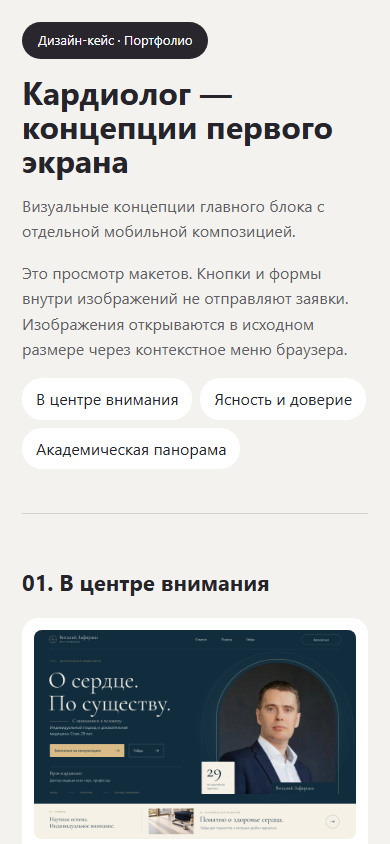
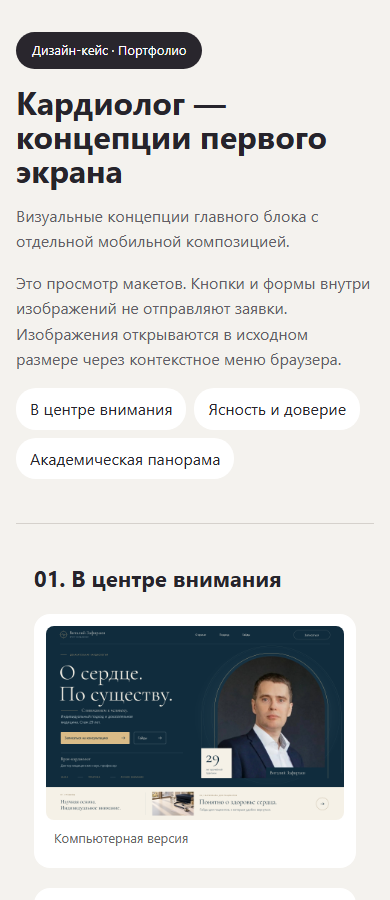
Polish project presentation, mobile layout and browser access

Changed region(s): [[0.0615, 0.6161, 0.9231, 1.0], [0.0308, 0.3081, 0.9538, 0.5545], [0.0308, 0.0, 0.8615, 0.2773]]

diff --git a/index.html b/index.html
@@ -1,1 +1,7 @@
-<!doctype html><html lang="ru"><meta charset="utf-8"><meta name="viewport" content="width=device-width,initial-scale=1"><title>Кардиолог — концепции первого экрана</title><style>*{box-sizing:border-box}body{margin:0;background:#f4f2ee;color:#26242b;font:16px/1.6 system-ui}header,main,footer{max-width:1440px;margin:auto;padding:32px}header{padding-top:64px}h1{font-size:clamp(32px,5vw,64px);line-height:1.06;max-width:1000px;margin:16px 0}h2{font-size:28px}p{max-width:900px;color:#625d66}.tag{display:inline-block;background:#29262d;color:white;border-radius:30px;padding:8px 16px;font-size:13px}nav{display:flex;flex-wrap:wrap;gap:8px}a{color:inherit}nav a{padding:8px 14px;background:white;border-radius:20px;text-decoration:none}section{padding:32px 0;border-top:1px solid #d5d1cc}figure{margin:0;background:white;padding:12px;border-radius:16px}img{max-width:100%;height:auto;display:block;border-radius:8px}figcaption{font-size:13px;color:#666;padding:8px}.screens{display:grid;grid-template-columns:minmax(0,3fr) minmax(0,1fr);align-items:start;gap:20px}details{padding:18px 0}summary{cursor:pointer;font-weight:600}footer{font-size:13px;color:#5f5b56}@media(max-width:700px){header,main,footer{padding:22px}.screens{grid-template-columns:1fr}.screens figure:nth-child(2){max-width:390px;margin:auto}h2{font-size:22px}}</style><header><span class="tag">Дизайн-кейс · Портфолио</span><h1>Кардиолог — концепции первого экрана</h1><p>Визуальные концепции главного блока с отдельной мобильной композицией.</p><p>Это просмотр макетов. Кнопки и формы внутри изображений не отправляют заявки. Изображения открываются в исходном размере через контекстное меню браузера.</p><nav><a href="#variant-1">В центре внимания</a><a href="#variant-2">Ясность и доверие</a><a href="#variant-3">Академическая панорама</a></nav></header><main><section id="variant-1"><h2>01. В центре внимания</h2><div class="screens"><figure><img src="assets/01-01_focus_desktop.png" alt="В центре внимания — Компьютерная версия" loading="lazy" width="3200" height="2080"><figcaption>Компьютерная версия</figcaption></figure><figure><img src="assets/01-01_focus_mobile.png" alt="В центре внимания — Мобильная версия" loading="lazy" width="860" height="2700"><figcaption>Мобильная версия</figcaption></figure></div></section><section id="variant-2"><h2>02. Ясность и доверие</h2><div class="screens"><figure><img src="assets/02-02_clarity_desktop.png" alt="Ясность и доверие — Компьютерная версия" loading="lazy" width="3200" height="2080"><figcaption>Компьютерная версия</figcaption></figure><figure><img src="assets/02-02_clarity_mobile.png" alt="Ясность и доверие — Мобильная версия" loading="lazy" width="860" height="2700"><figcaption>Мобильная версия</figcaption></figure></div></section><section id="variant-3"><h2>03. Академическая панорама</h2><div class="screens"><figure><img src="assets/03-03_atlas_desktop.png" alt="Академическая панорама — Компьютерная версия" loading="lazy" width="3200" height="2080"><figcaption>Компьютерная версия</figcaption></figure><figure><img src="assets/03-03_atlas_mobile.png" alt="Академическая панорама — Мобильная версия" loading="lazy" width="860" height="2700"><figcaption>Мобильная версия</figcaption></figure></div></section></main><footer>Роман Кабанов · Дизайн и адаптивные композиции · HTML-галерея макетов</footer></html>
+<!doctype html><html lang="ru"><meta charset="utf-8"><meta name="viewport" content="width=device-width,initial-scale=1"><title>Кардиолог — концепции первого экрана</title><style>*{box-sizing:border-box}body{margin:0;background:#f4f2ee;color:#26242b;font:16px/1.6 system-ui}header,main,footer{max-width:1440px;margin:auto;padding:32px}header{padding-top:64px}h1{font-size:clamp(32px,5vw,64px);line-height:1.06;max-width:1000px;margin:16px 0}h2{font-size:28px}p{max-width:900px;color:#625d66}.tag{display:inline-block;background:#29262d;color:white;border-radius:30px;padding:8px 16px;font-size:13px}nav{display:flex;flex-wrap:wrap;gap:8px}a{color:inherit}nav a{padding:8px 14px;background:white;border-radius:20px;text-decoration:none}section{padding:32px 0;border-top:1px solid #d5d1cc}figure{margin:0;background:white;padding:12px;border-radius:16px}img{max-width:100%;height:auto;display:block;border-radius:8px}figcaption{font-size:13px;color:#666;padding:8px}.screens{display:grid;grid-template-columns:minmax(0,3fr) minmax(0,1fr);align-items:start;gap:20px}details{padding:18px 0}summary{cursor:pointer;font-weight:600}footer{font-size:13px;color:#5f5b56}@media(max-width:700px){header,main,footer{padding:22px}.screens{grid-template-columns:1fr}.screens figure:nth-child(2){max-width:390px;margin:auto}h2{font-size:22px}}
+.screen-preview{display:block;width:100%;padding:0;border:0;border-radius:12px;background:transparent;cursor:zoom-in;text-align:left;color:inherit}
+.screen-preview:focus-visible,.screen-viewer button:focus-visible,.screen-viewer a:focus-visible{outline:3px solid #52725d;outline-offset:4px}
+.screen-viewer{width:min(1400px,94vw);max-height:94dvh;padding:20px;border:1px solid #c8c9c1;border-radius:16px;background:#f4f2ee;color:#26242b}
+.screen-viewer::backdrop{background:#101512c9}.screen-viewer>button{float:right;min-height:44px;padding:8px 14px;border:1px solid #b6bcb1;border-radius:8px;background:#fff;cursor:pointer;font:inherit}.screen-viewer>h2{margin:0 120px 12px 0;font-size:20px}.screen-viewer>a{display:inline-block;min-height:44px;color:#345c44}.screen-viewer>img{display:block;width:100%;height:auto;border-radius:8px}
+@media(max-width:600px){header{padding-top:32px}header,main,footer{padding-inline:16px}section{padding:18px}.screen-viewer{padding:14px}.screen-viewer>h2{font-size:17px;margin-right:110px}}
+</style><header><span class="tag">Дизайн-кейс · Портфолио</span><h1>Кардиолог — концепции первого экрана</h1><p>Визуальные концепции главного блока с отдельной мобильной композицией.</p><p>Это просмотр макетов. Кнопки и формы внутри изображений не отправляют заявки. Изображения открываются в исходном размере через контекстное меню браузера.</p><nav><a href="#variant-1">В центре внимания</a><a href="#variant-2">Ясность и доверие</a><a href="#variant-3">Академическая панорама</a></nav></header><main><section id="variant-1"><h2>01. В центре внимания</h2><div class="screens"><figure><img src="assets/01-01_focus_desktop.png" alt="В центре внимания — Компьютерная версия" loading="lazy" width="3200" height="2080"><figcaption>Компьютерная версия</figcaption></figure><figure><img src="assets/01-01_focus_mobile.png" alt="В центре внимания — Мобильная версия" loading="lazy" width="860" height="2700"><figcaption>Мобильная версия</figcaption></figure></div></section><section id="variant-2"><h2>02. Ясность и доверие</h2><div class="screens"><figure><img src="assets/02-02_clarity_desktop.png" alt="Ясность и доверие — Компьютерная версия" loading="lazy" width="3200" height="2080"><figcaption>Компьютерная версия</figcaption></figure><figure><img src="assets/02-02_clarity_mobile.png" alt="Ясность и доверие — Мобильная версия" loading="lazy" width="860" height="2700"><figcaption>Мобильная версия</figcaption></figure></div></section><section id="variant-3"><h2>03. Академическая панорама</h2><div class="screens"><figure><img src="assets/03-03_atlas_desktop.png" alt="Академическая панорама — Компьютерная версия" loading="lazy" width="3200" height="2080"><figcaption>Компьютерная версия</figcaption></figure><figure><img src="assets/03-03_atlas_mobile.png" alt="Академическая панорама — Мобильная версия" loading="lazy" width="860" height="2700"><figcaption>Мобильная версия</figcaption></figure></div></section></main><footer>Роман Кабанов · Дизайн и адаптивные композиции · HTML-галерея макетов</footer><script src="viewer.js"></script></html>

diff --git a/viewer.js b/viewer.js
@@ -1,0 +1,34 @@
+const viewer = document.createElement("dialog");
+viewer.className = "screen-viewer";
+viewer.setAttribute("aria-labelledby", "screen-title");
+const heading = document.createElement("h2");
+heading.id = "screen-title";
+const close = document.createElement("button");
+close.type = "button";
+close.textContent = "Закрыть ×";
+close.onclick = () => viewer.close();
+const original = document.createElement("a");
+original.textContent = "Открыть оригинал ↗";
+original.target = "_blank";
+original.rel = "noopener";
+const image = document.createElement("img");
+viewer.append(close, heading, original, image);
+document.body.append(viewer);
+viewer.addEventListener("click", (event) => {
+  if (event.target === viewer) viewer.close();
+});
+document.querySelectorAll("main img").forEach((screen) => {
+  const button = document.createElement("button");
+  button.type = "button";
+  button.className = "screen-preview";
+  button.setAttribute("aria-label", "Открыть экран: " + screen.alt);
+  screen.before(button);
+  button.append(screen);
+  button.onclick = () => {
+    heading.textContent = screen.alt;
+    image.src = screen.src;
+    image.alt = screen.alt;
+    original.href = screen.src;
+    viewer.showModal();
+  };
+});

diff --git a/README.md b/README.md
@@ -1,4 +1,4 @@
-# Кардиолог — концепции первого экрана
+# Кардиолог - концепции первого экрана
 
 Три визуальных направления сайта врача с отдельными компьютерными и мобильными композициями.
 
